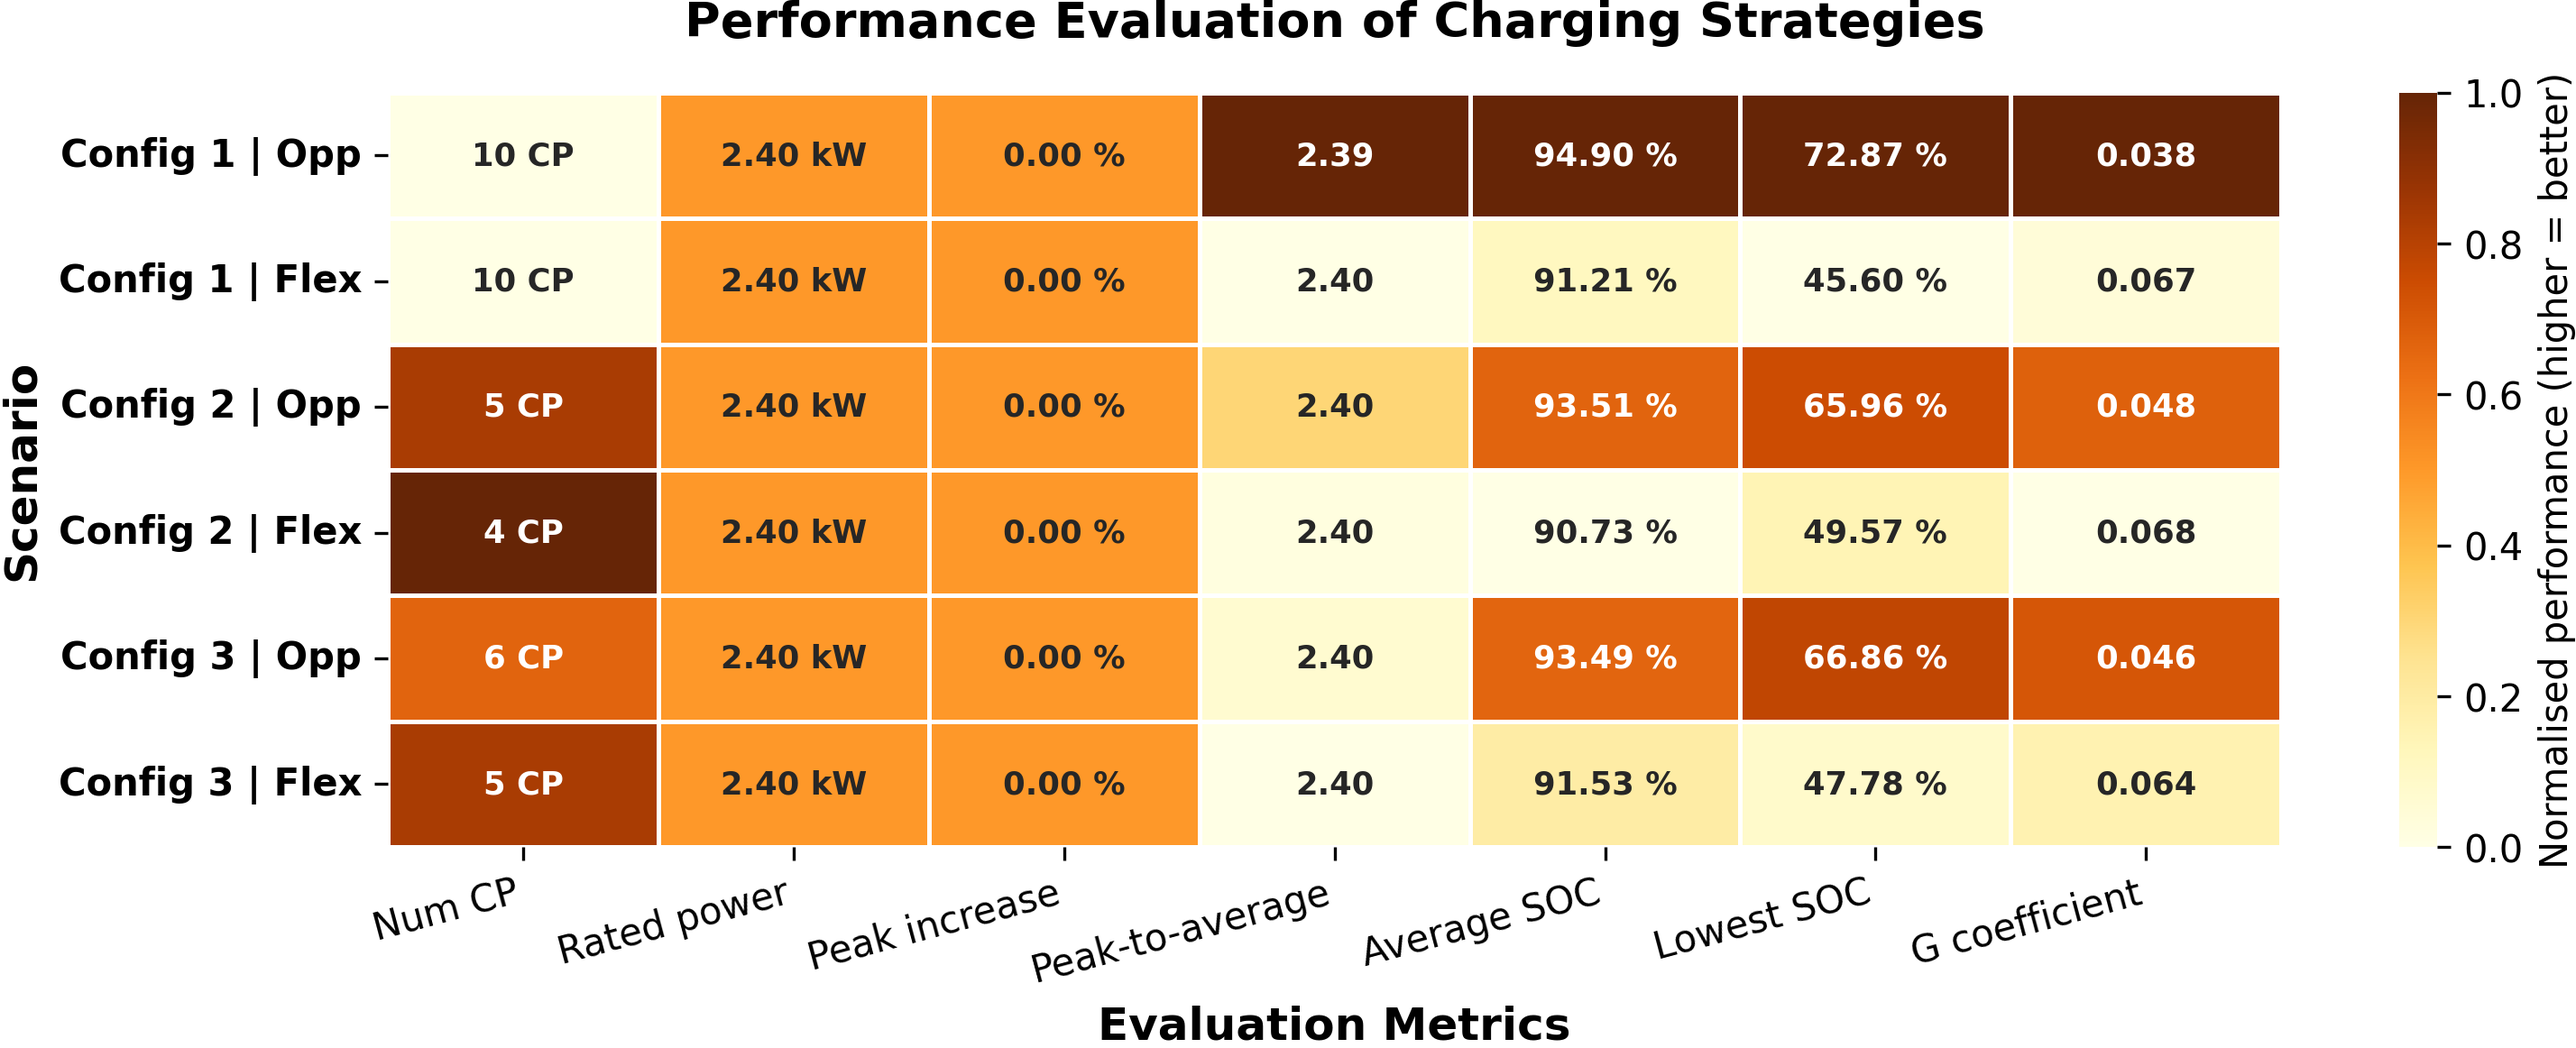
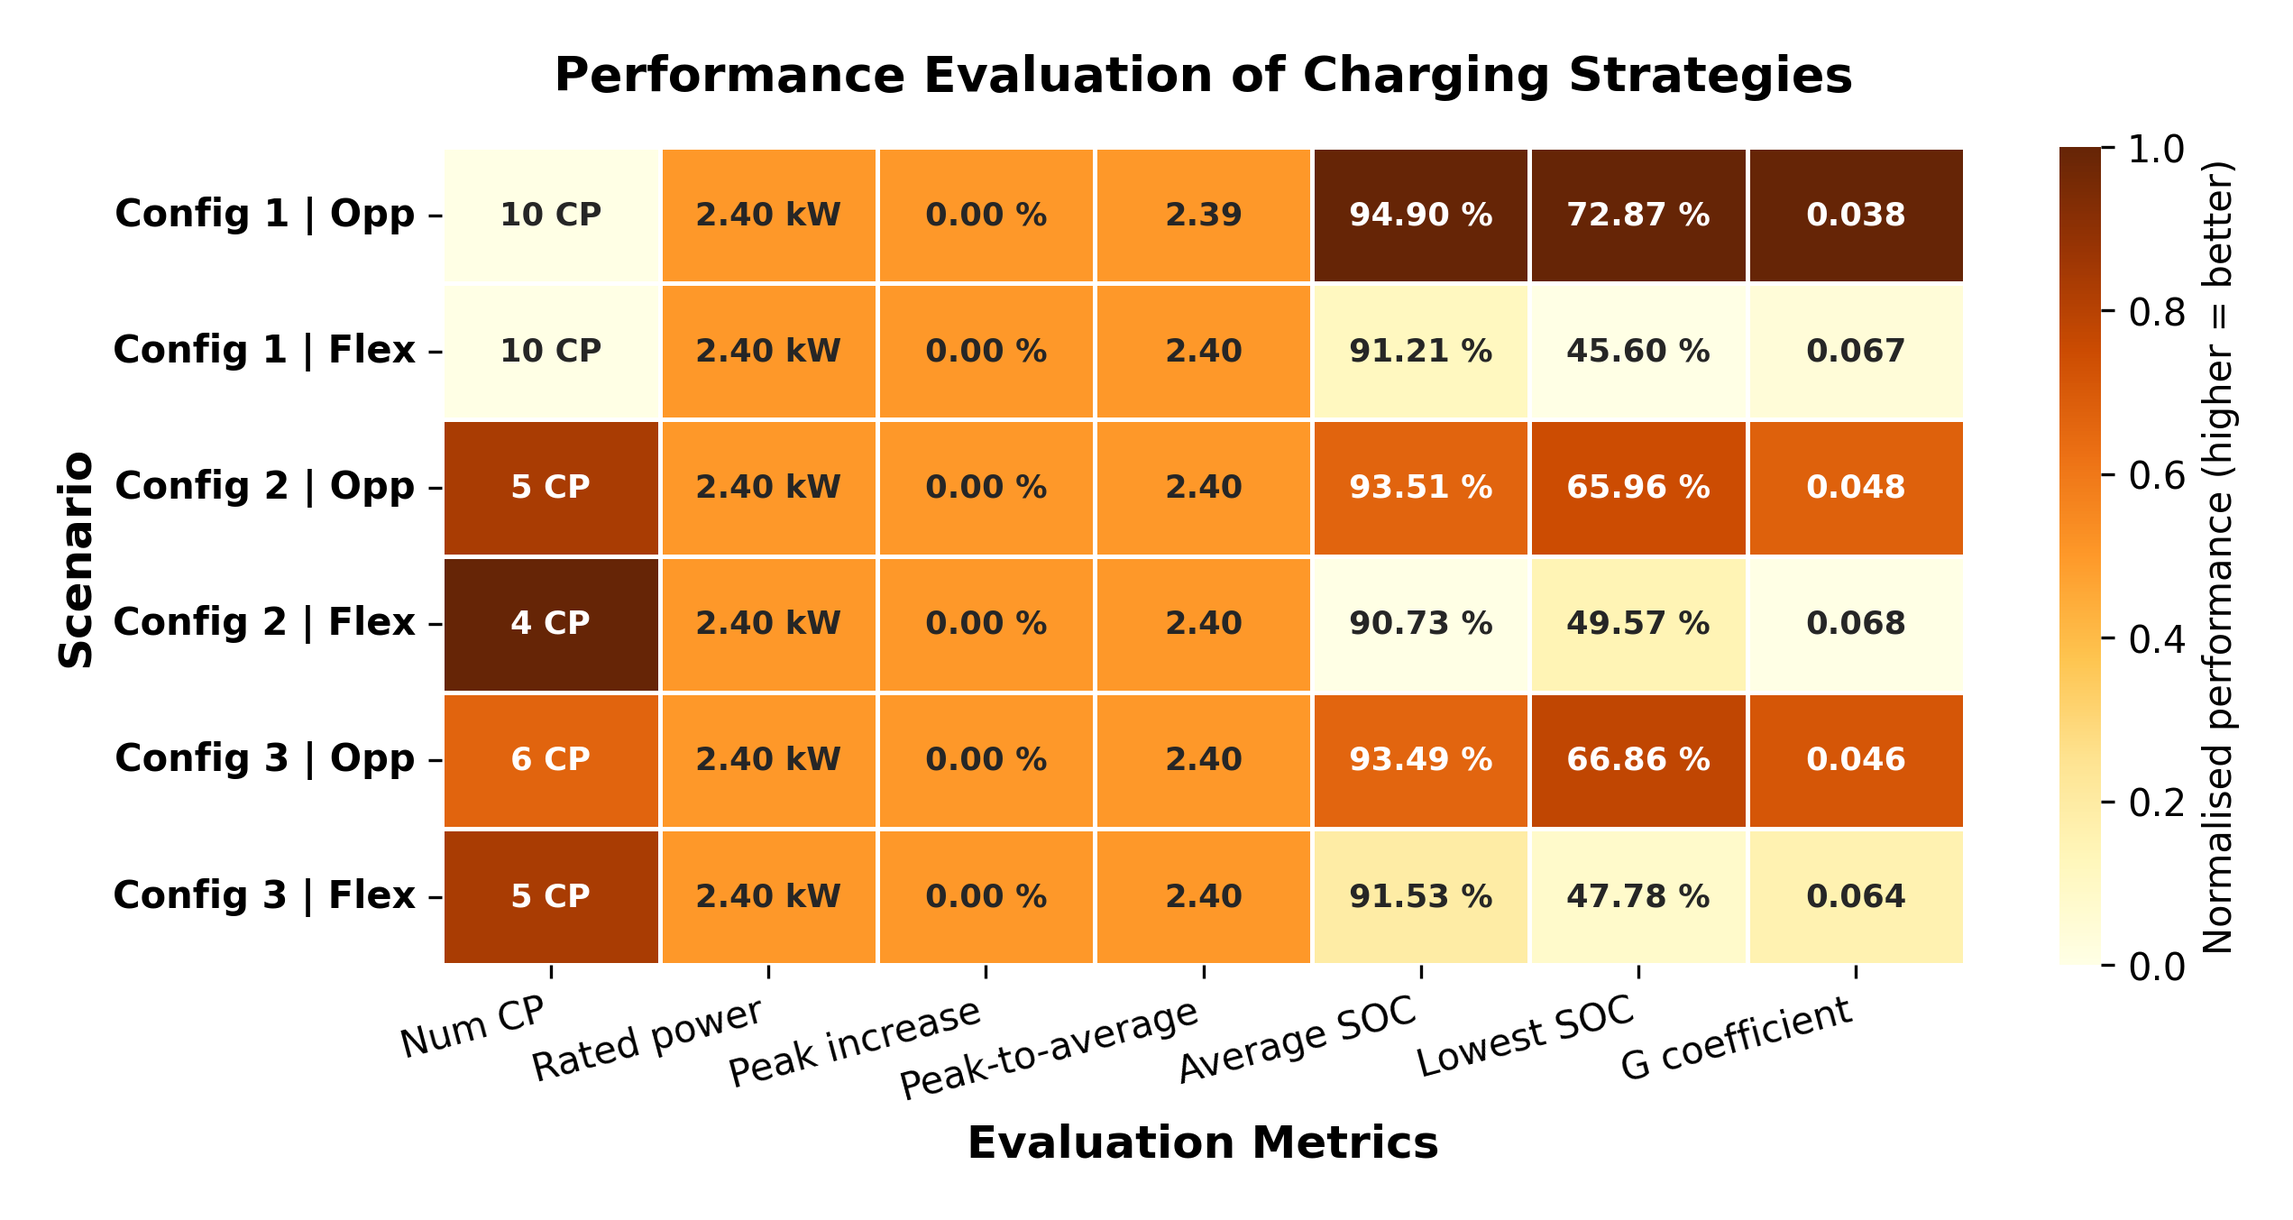
Fix colour contrast bug in performance heatmap plot

diff --git a/src/visualisation/plots/performance_heatmap_plot.py b/src/visualisation/plots/performance_heatmap_plot.py
@@ -59,10 +59,18 @@ def plot_performance_heatmap(
         cmap: str = 'YlGnBu',
         save_img: bool = False,
 ) -> None:
-    norm_df = normalise_heatmap_df(df, higher_is_better)
+    df_for_plot = df.copy()
+
+    if 'Peak-to-average' in df_for_plot.columns:
+        df_for_plot['Peak-to-average'] = df_for_plot['Peak-to-average'].round(1)
+
+    norm_df = normalise_heatmap_df(df_for_plot, higher_is_better)
     annot_df = build_heatmap_annotation_df(df, units, formatters)
 
-    plt.figure(figsize=(max(8, len(df.columns) * 1.5), max(4, len(df.index) * 0.7)))
+    # plt.figure(figsize=(max(8, len(df.columns) * 1.5), max(4, len(df.index) * 0.7)))
+    fig, ax = plt.subplots(
+        figsize=(max(8, len(df.columns) * 1.5), max(4, len(df.index) * 0.7))
+    )
 
     ax = sns.heatmap(
         norm_df,
@@ -82,7 +90,8 @@ def plot_performance_heatmap(
     ax.set_xticklabels(ax.get_xticklabels(), rotation=15, ha='right')
 
     plt.title(title, fontsize=13, fontweight='bold', pad=15)
-    plt.tight_layout()
+    # plt.tight_layout()
+    fig.subplots_adjust(left=0.25, right=0.92, top=0.90, bottom=0.18)
 
     if save_img and filename:
         io.save_figure(filename)

diff --git a/src/visualisation/scripts/run_performance_heatmap.py b/src/visualisation/scripts/run_performance_heatmap.py
@@ -1,3 +1,5 @@
+import pandas as pd
+
 from src.config import params
 from src.visualisation.datasets.performance_heatmap_dataset import (
     HEATMAP_HIGHER_IS_BETTER,
@@ -10,6 +12,7 @@ from src.visualisation.plots.performance_heatmap_plot import plot_performance_he
 
 
 def main() -> None:
+    pd.set_option('display.max_columns', None)
     configurations = ['config_1', 'config_2', 'config_3']
     charging_strategies = ['opportunistic', 'flexible']
     versions = [

diff --git a/src/visualisation/io.py b/src/visualisation/io.py
@@ -38,7 +38,7 @@ def save_figure(filename: str):
     plt.savefig(
         file_path,
         dpi=300,
-        transparent=True,
+        # transparent=True,
         bbox_inches='tight',
-        pad_inches=0
+        pad_inches=0.2
     )
